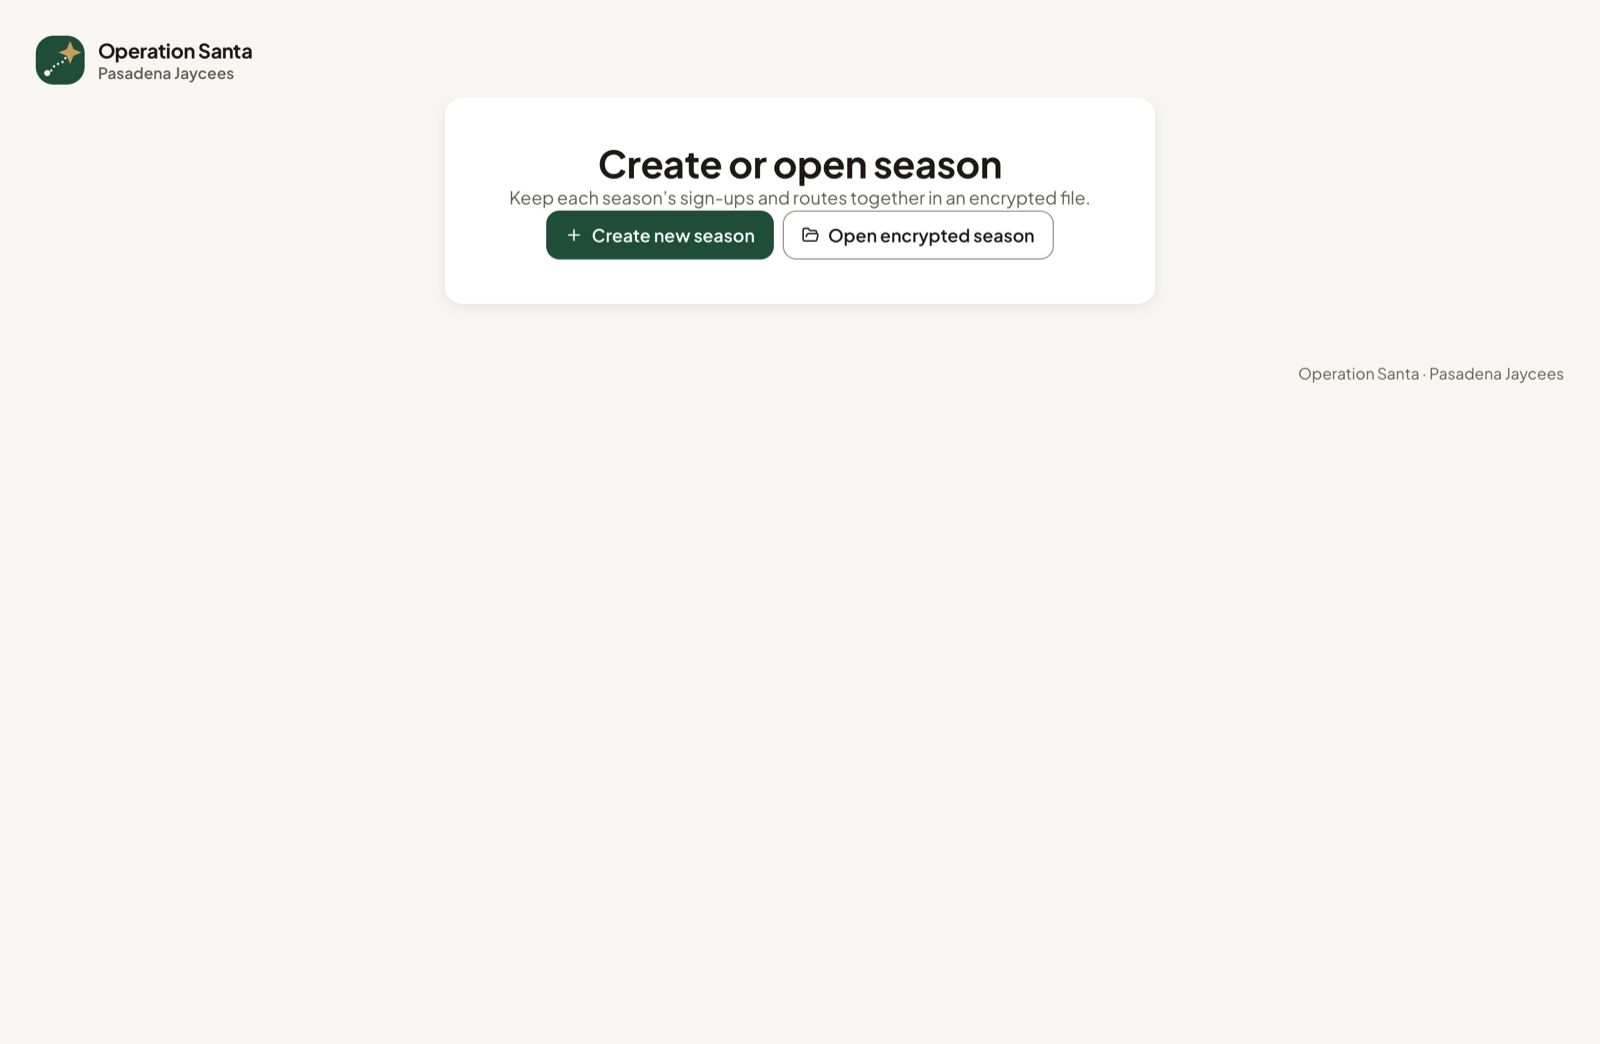
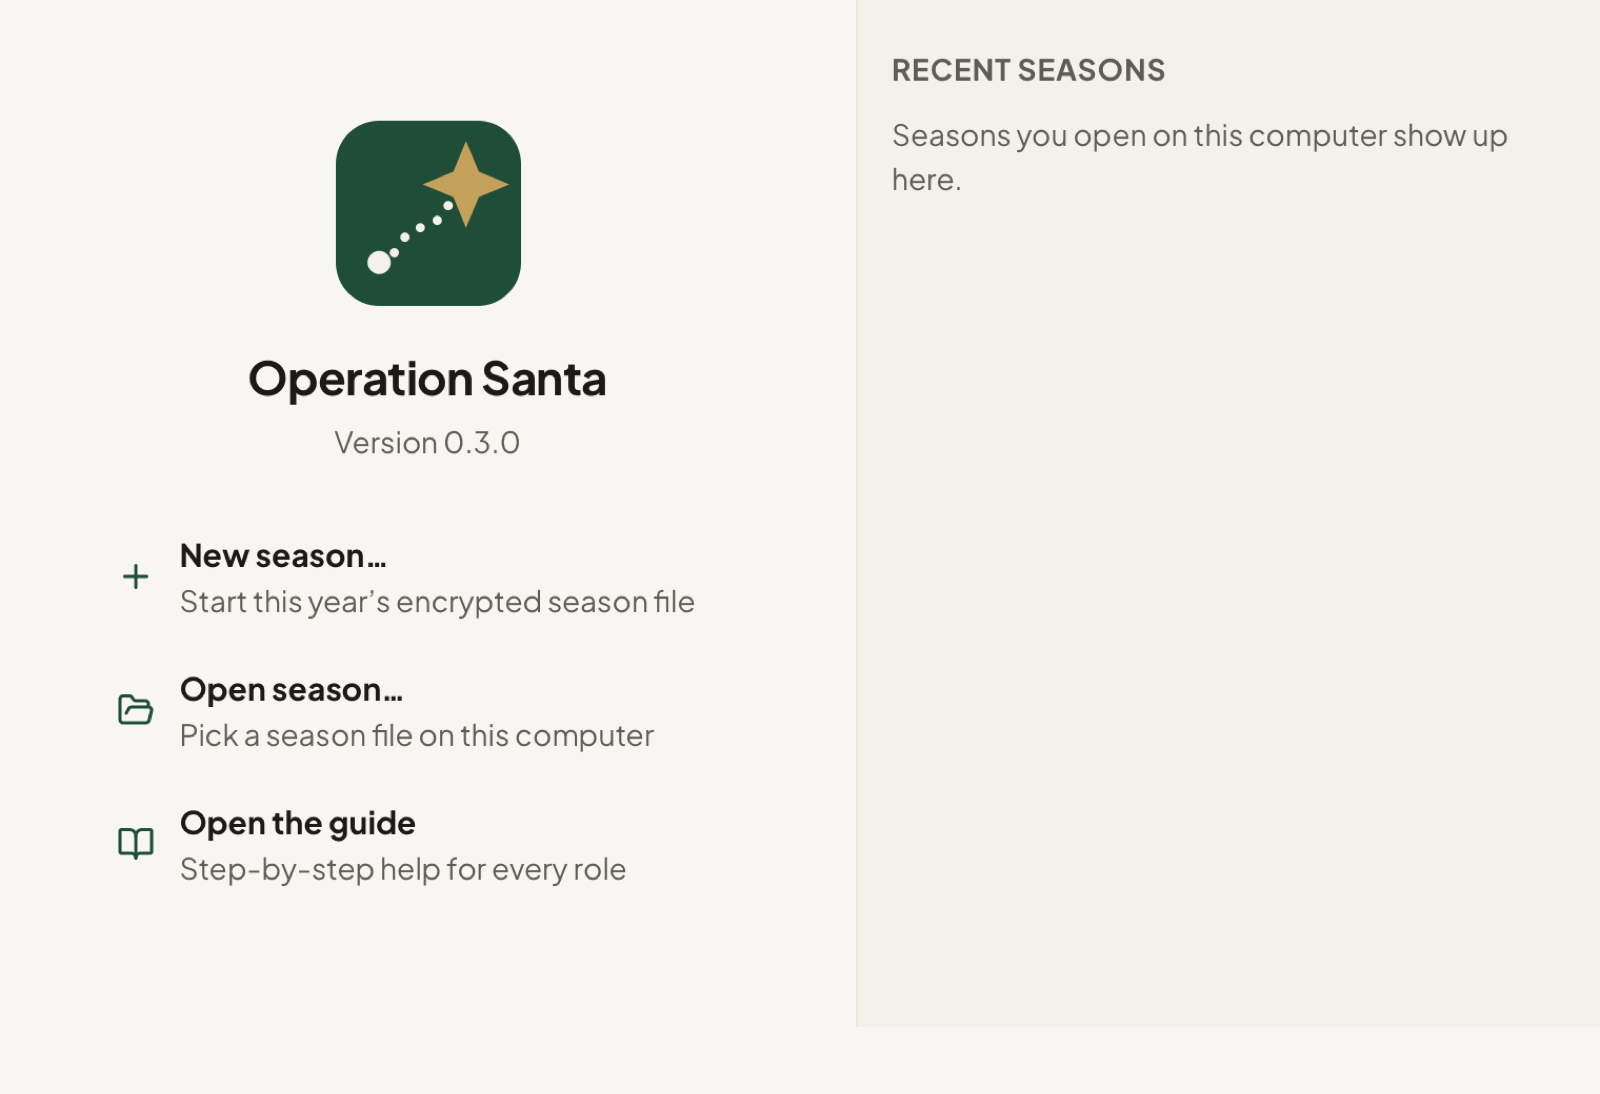
Real Move to Applications check, guide screenshots for 0.3.0, docs
- npm run e2e:move: the direct-download Dev build runs from Downloads in a throwaway home
  folder, offers the move, copies itself into a scratch Applications folder with the same
  signature, trashes the original and reopens from there (6 of 6 checks).
- Guide screenshots retaken from the real app: welcome window, two-field new season sheet.
- README and e2e/README: the Dev identity, isolation rules, and the move check.

diff --git a/e2e/install/move.e2e.ts b/e2e/install/move.e2e.ts
@@ -1,0 +1,23 @@
+import {browser,$} from '@wdio/globals';
+import assert from 'node:assert/strict';
+import {existsSync,readdirSync} from 'node:fs';
+import path from 'node:path';
+// Move to Applications, for real (main.rs move_to_applications). Run by e2e/install/run.mjs: a debug Dev build with the
+// updater feature (the direct-download build) runs from Downloads in a throwaway home folder, with "Applications"
+// pointed at a scratch folder (OPSANTA_APPLICATIONS_DIR, debug builds only). The real /Applications and Trash are untouched.
+const HOME=process.env.HOME!;
+const APPS=process.env.OPSANTA_APPLICATIONS_DIR!;
+const NAME='Operation Santa Dev.app';
+describe('Move to Applications (direct-download build opened from Downloads)',()=>{
+ it('offers to move, then copies itself into Applications, trashes the original and reopens from there',async()=>{
+  assert.ok(APPS&&HOME.includes('opsanta-move-'),'run through e2e/install/run.mjs');
+  await $('h1').waitForDisplayed({timeout:60000});
+  const title=$('//h2[normalize-space()="Move Operation Santa to the Applications folder?"]');
+  await title.waitForExist({timeout:20000,timeoutMsg:'no move offer for a copy running from Downloads'});
+  assert.match(await $('[role="dialog"]').getText(),/running from Downloads/);
+  console.log('MOVE-CLICKED');await $('//button[normalize-space()="Move and Restart"]').click();
+  await browser.waitUntil(async()=>existsSync(path.join(APPS,NAME,'Contents','MacOS','opsanta')),{timeout:60000,timeoutMsg:'the app never arrived in Applications'}).catch(e=>{throw e});
+  assert.equal(existsSync(path.join(HOME,'Downloads',NAME)),false,'the original left Downloads');
+  assert.ok(readdirSync(path.join(HOME,'.Trash')).some(n=>n.startsWith('Operation Santa Dev (moved to Applications')),'the original is in the Trash');
+ });
+});

diff --git a/e2e/README.md b/e2e/README.md
@@ -71,3 +71,21 @@ The Mac App Store build runs in Apple's App Sandbox, which lets the app reach on
 - The keychain entry is deleted at the end. The container stays at `~/Library/Containers/org.pasadenajaycees.opsanta.sandboxtest` as evidence.
 
 The real panels are checked by hand on the first TestFlight build (`docs/RELEASE.md`). It needs no other E2E app on port 4445; the runner refuses to start otherwise.
+
+## Move to Applications (macOS only)
+
+```bash
+npm run e2e:move
+```
+
+The direct-download build offers to move itself into Applications when it runs from a disk image, Downloads, the Desktop or a translocated copy (`main.rs` `install_location` / `move_to_applications`). `e2e/install/run.mjs` tests that with a real app bundle:
+
+- It builds the Dev app with the `e2e` and `updater` features (debug), copies it into `Downloads` inside a throwaway home folder, and points "Applications" at a scratch folder (`OPSANTA_APPLICATIONS_DIR`, honored only in debug builds). The real `/Applications`, Downloads and Trash are never touched.
+- `install/move.e2e.ts` waits for the offer and clicks **Move and Restart**.
+- The app then quits on purpose, so WebDriver's own session teardown fails. The runner judges the result from what happened instead: the app is in Applications with the same signature, the original left Downloads for the Trash, and the copy reopened from Applications. Then it stops that copy and unregisters both from Launch Services.
+
+## Isolation
+
+- E2E builds are the Dev identity (`tauri.dev.conf.json`), never `org.pasadenajaycees.opsanta`. `e2e/build.mjs` refuses the production ID.
+- Each run gets a fresh app data folder, `e2e/.artifacts/appdata-<timestamp>` (`OPSANTA_DATA_DIR`, honored only in E2E builds). The sandbox proof is the exception: there the container is what's under test.
+- Each spec file's app starts with empty webview storage (`apps/desktop/src/e2e.ts`). WebKit keeps localStorage per bundle ID across runs, and recent seasons or "four steps seen" would otherwise leak between runs.

diff --git a/README.md b/README.md
@@ -11,6 +11,8 @@ npm ci
 npm run desktop
 ```
 
+`npm run desktop` (and `desktop:dev-app`, `e2e:build`, the guide screenshots) builds **Operation Santa Dev**: bundle ID `org.pasadenajaycees.opsanta.dev`, a slate icon with a hazard band, and a "Dev build" ribbon. It has its own app data and keychain entries, so it never touches a real install. Only the `release:*` scripts build the production identity, and the release gate refuses a Dev build. The rules for agents are in `AGENTS.md`.
+
 For an in-memory preview with synthetic families:
 
 ```sh
